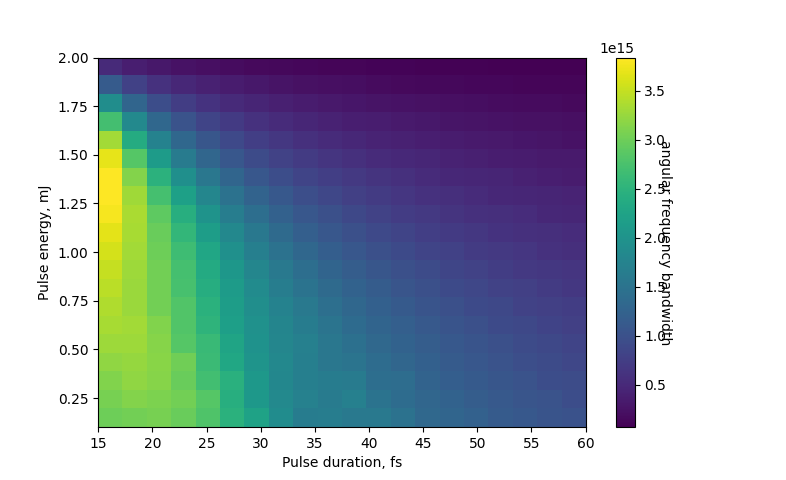
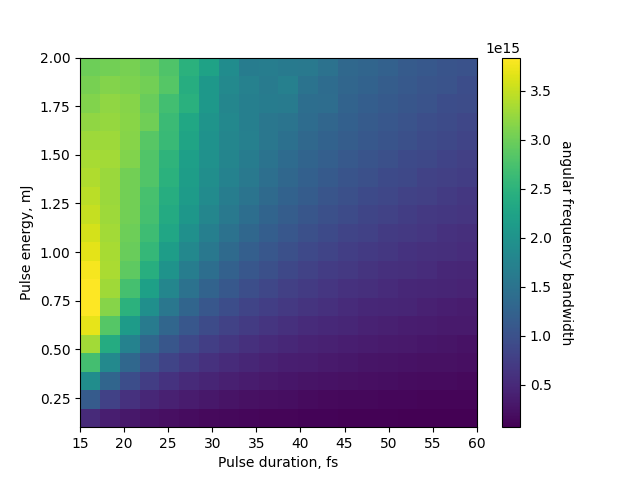
fixed colourmap plot

diff --git a/HCF sim/Python/building datasets/energy_and_duration_vs_rms_width.py b/HCF sim/Python/building datasets/energy_and_duration_vs_rms_width.py
@@ -52,7 +52,7 @@ for i in range(len(energies)):
         width=rms_width(ω,Iω)
         widths[i][j]=width
 
-plt.imshow(widths, extent=(np.amin(τfwhms)*10**15, np.amax(τfwhms)*10**15,np.amin(energies)*10**3, np.amax(energies)*10**3), aspect = 'equal', origin="lower")
+plt.imshow(widths, extent=(np.amin(τfwhms)*10**15, np.amax(τfwhms)*10**15,np.amin(energies)*10**3, np.amax(energies)*10**3), aspect = 'auto', origin="lower")
 plt.xlabel("Pulse duration, fs")
 plt.ylabel("Pulse energy, mJ")
 #legend
